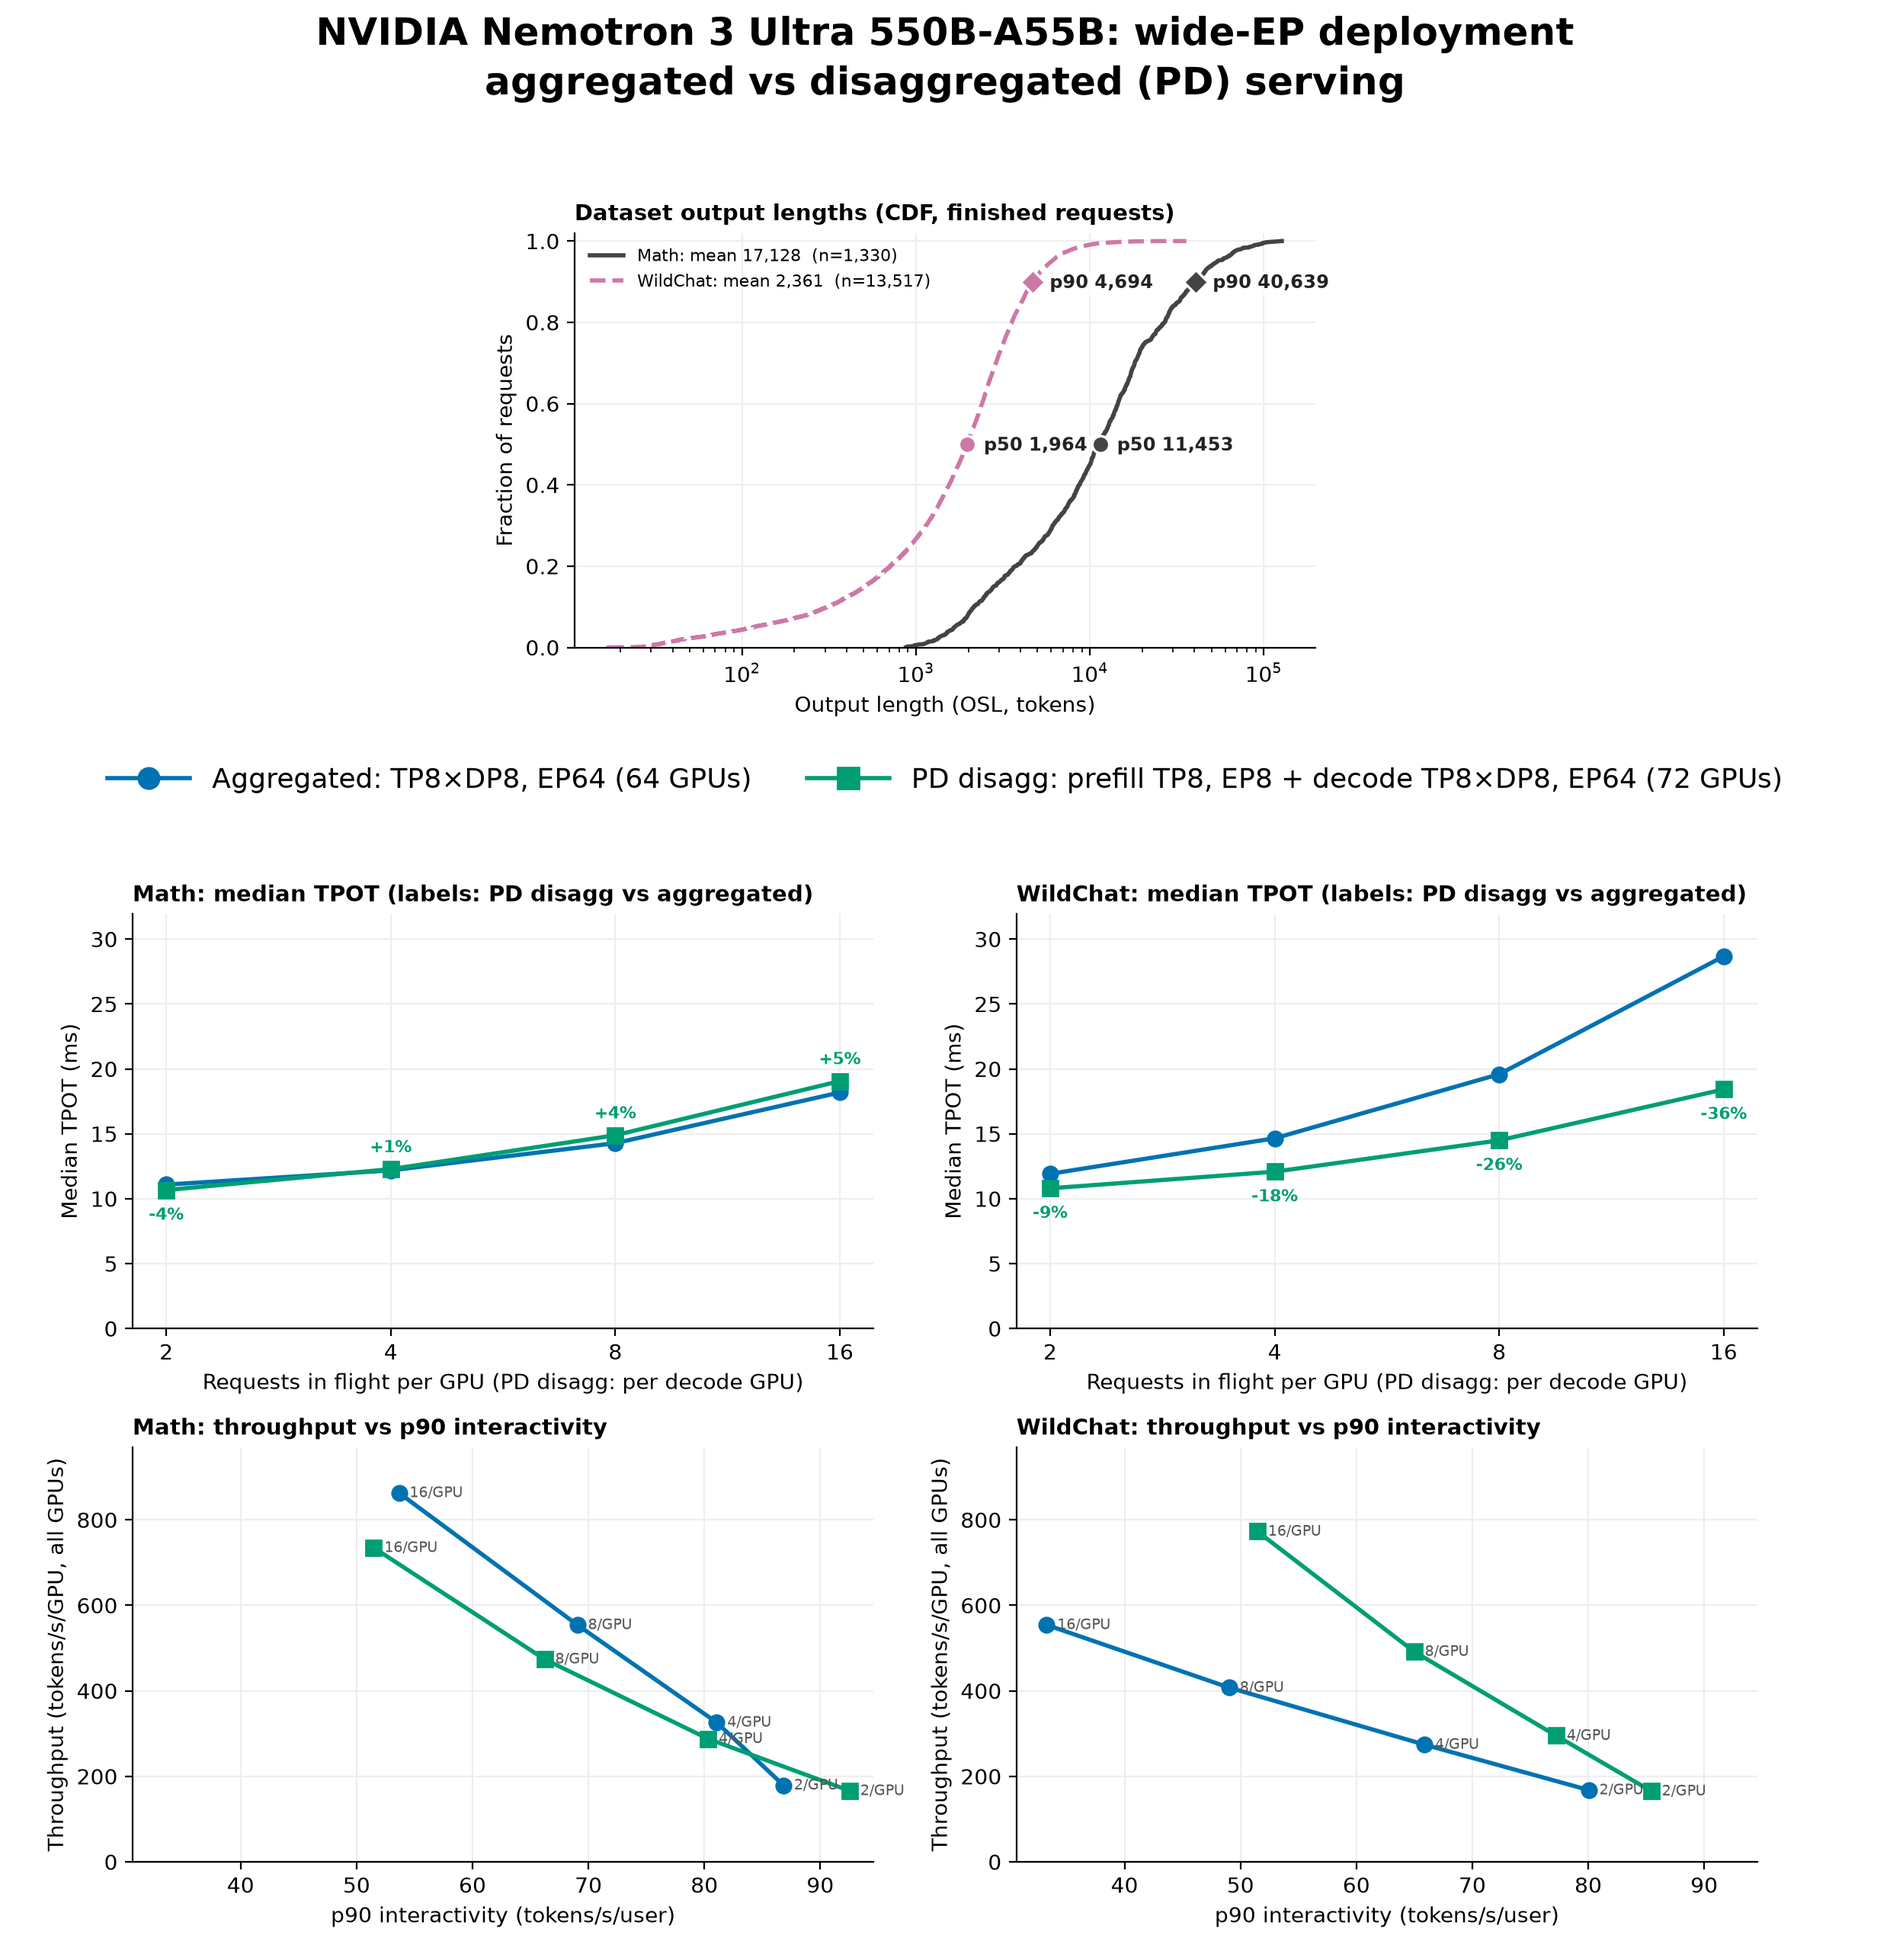
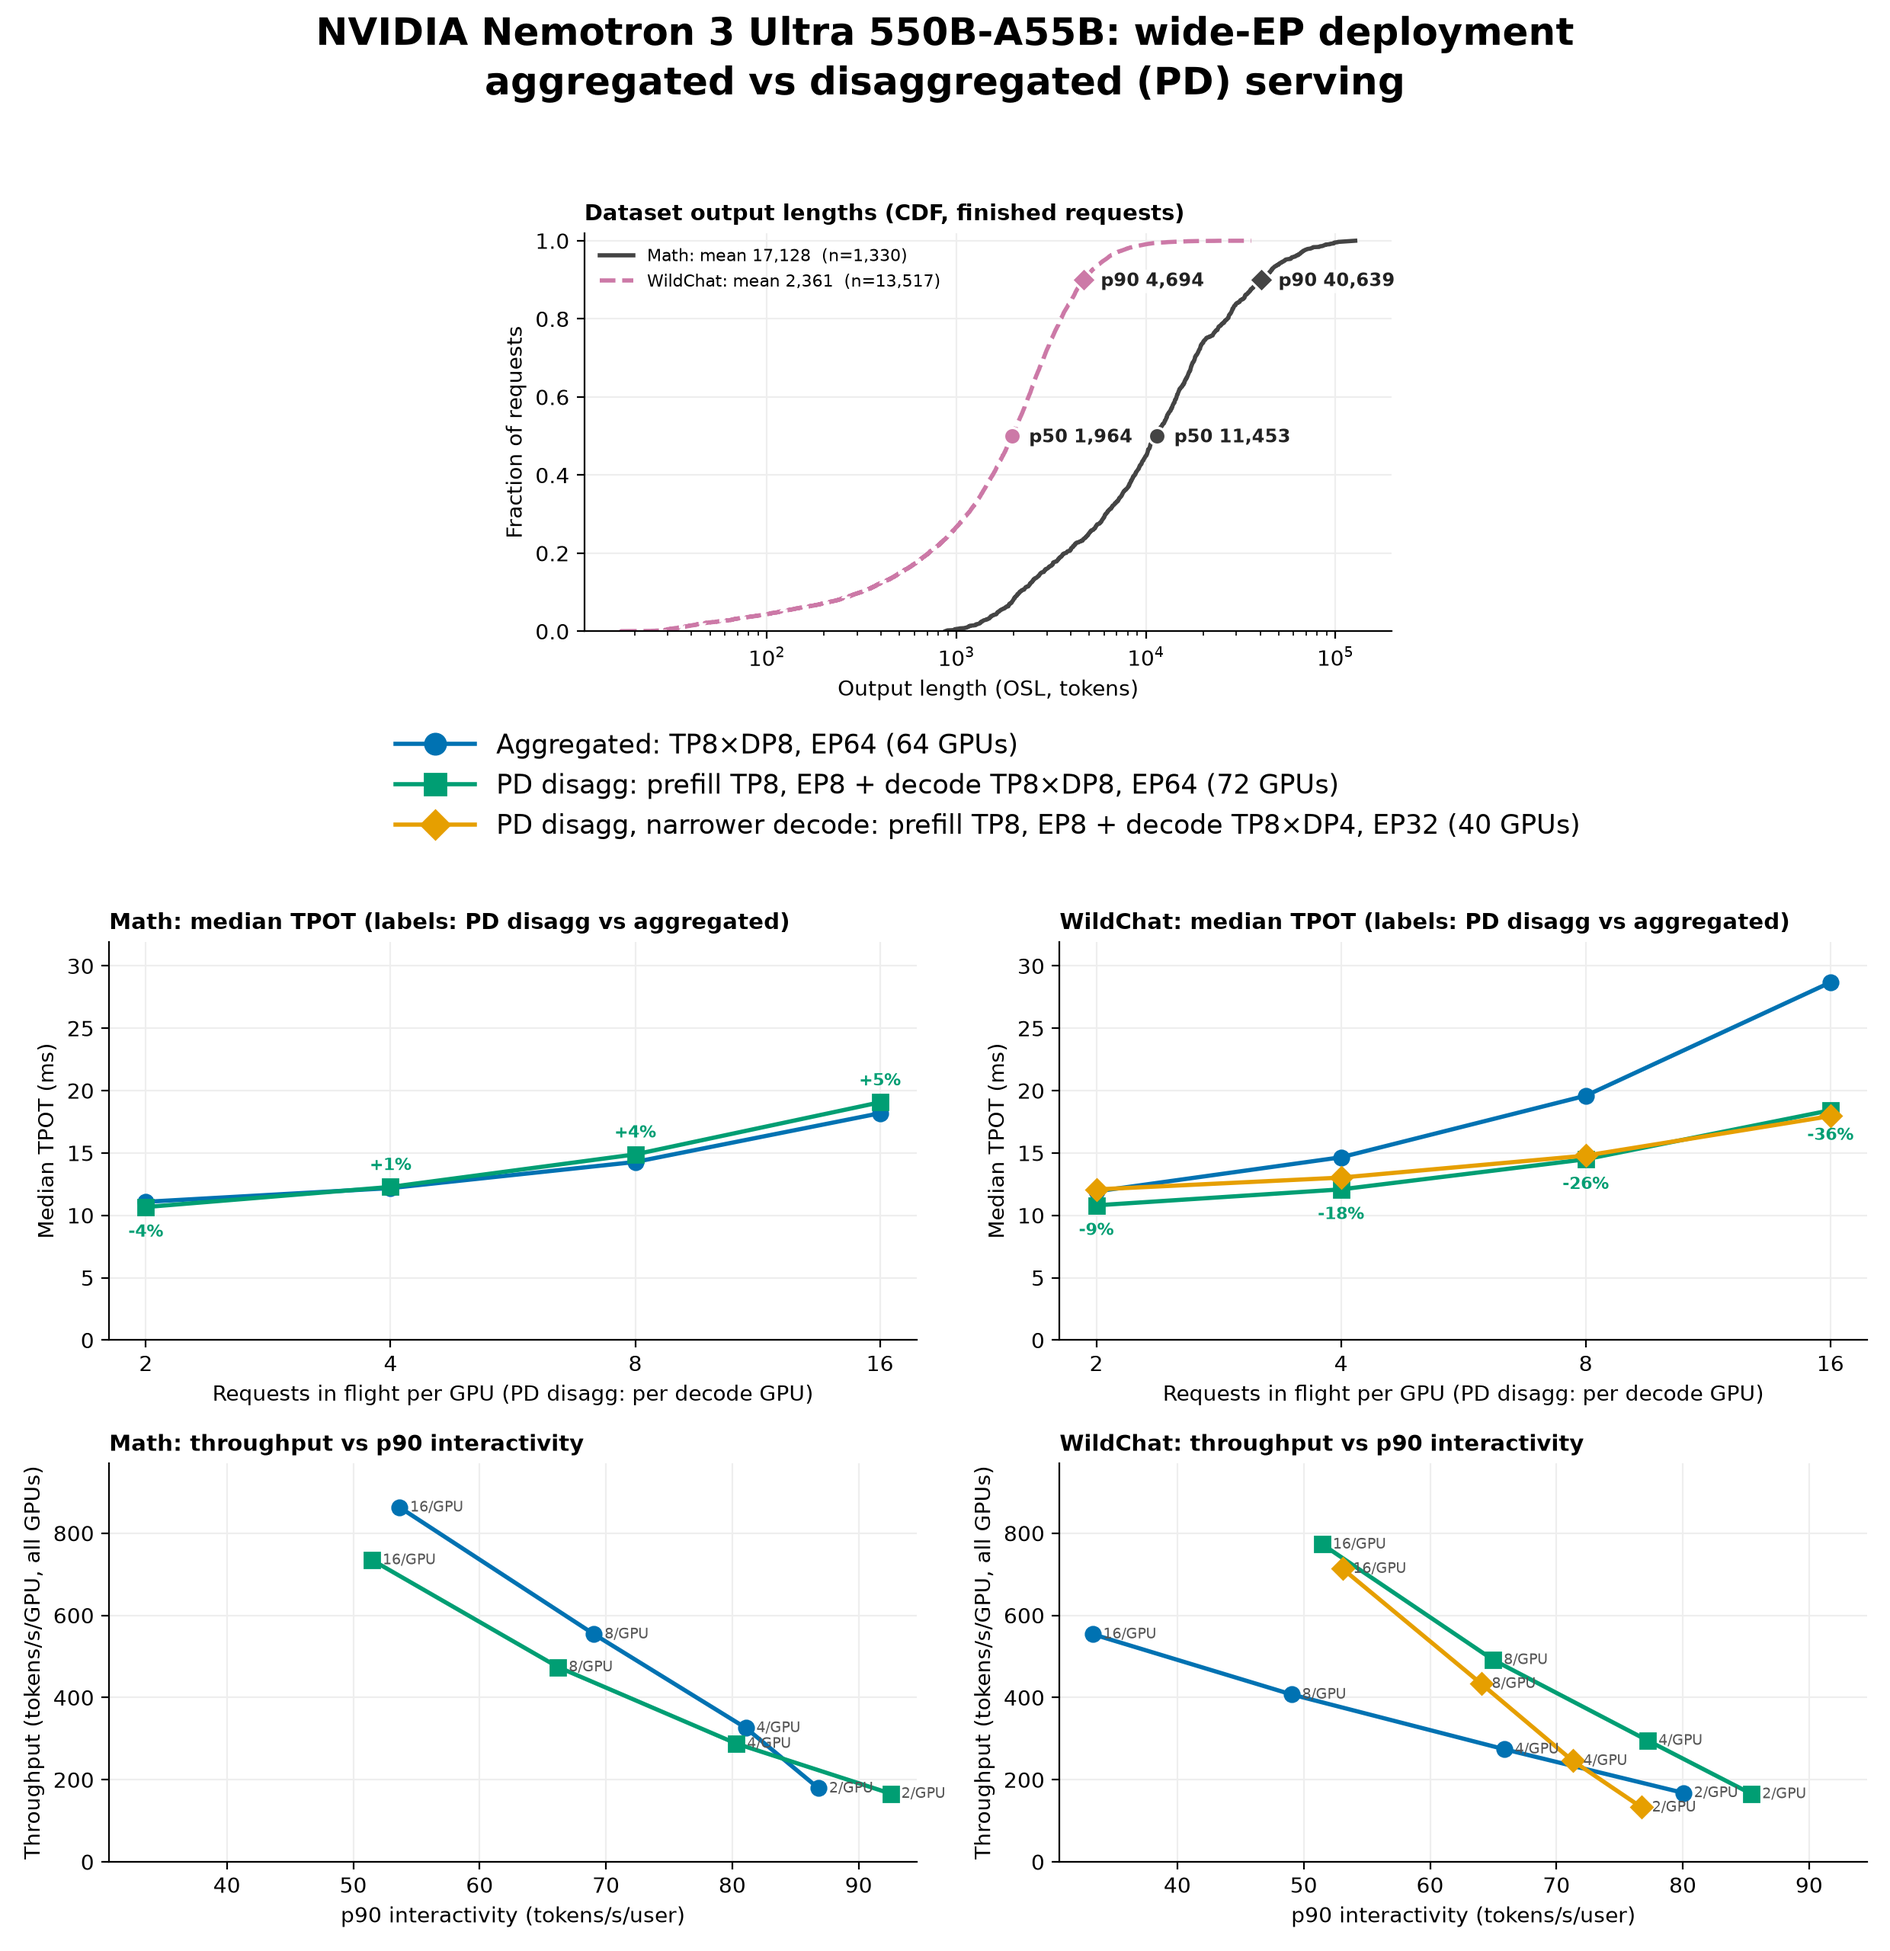
inference-bench: PD vs agg figure takes extra PD runs; WildChat adds the EP32-decode PD run
--extra-pd DATASET LABEL RUN draws another PD run (orange diamonds) in that dataset's column; the
legend lists every series once.

diff --git a/inference-bench/analysis/plot_pd_vs_agg.py b/inference-bench/analysis/plot_pd_vs_agg.py
@@ -18,11 +18,14 @@ from plot_narrow_vs_wide_now import MINF, layout, load, total_gpus
 
 plt.rcParams["font.family"] = ["Gill Sans", "Gill Sans MT", "URW Gothic", "Open Sans", "DejaVu Sans"]
 PD = "#009E73"  # bluish green, the PD series colour in the other Ultra figures
+EXTRA = "#E69F00"  # orange (Okabe-Ito): extra PD runs, off the CDF row's dataset colours
 
 
 def main():
     ap = argparse.ArgumentParser()
     ap.add_argument("--dataset", nargs=3, action="append", required=True, metavar=("NAME", "AGG", "PD"))
+    ap.add_argument("--extra-pd", nargs=3, action="append", default=[], metavar=("DATASET", "LABEL", "RUN"),
+                    help="another PD run drawn in DATASET's column (e.g. a narrower decode pool)")
     ap.add_argument("--title", default="NVIDIA Nemotron 3 Ultra 550B-A55B: wide-EP deployment\n"
                     "aggregated vs disaggregated (PD) serving")
     ap.add_argument("--out", required=True)
@@ -33,7 +36,7 @@ def main():
     assert len(args.dataset) == 2, "the layout has two dataset columns"
     # A thin row between the CDF and the TPOT row holds the aggregated / PD disagg legend.
     fig = plt.figure(figsize=(12.4, 12.8))
-    grid = fig.add_gridspec(4, 4, height_ratios=[1, 0.07, 1, 1])
+    grid = fig.add_gridspec(4, 4, height_ratios=[1, 0.07 if len(args.extra_pd) == 0 else 0.16, 1, 1])
     osl_ax = fig.add_subplot(grid[0, 1:3])
     legend_ax = fig.add_subplot(grid[1, :])
     legend_ax.axis("off")
@@ -41,6 +44,8 @@ def main():
     for col, (name, agg, pd) in enumerate(args.dataset):
         series = [(f"Aggregated: {layout(agg)} ({total_gpus(agg)} GPUs)", load(agg), MINF, "o"),
                   (f"PD disagg: {layout(pd)} ({total_gpus(pd)} GPUs)", load(pd), PD, "s")]
+        series += [(f"{label}: {layout(run)} ({total_gpus(run)} GPUs)", load(run), EXTRA, "D")
+                   for ds, label, run in args.extra_pd if ds == name]
         tpot, pareto = axes[1][col], axes[2][col]
         for label, pts, color, marker in series:
             per_gpu, tput, inter, t, _ = zip(*pts)
@@ -86,9 +91,13 @@ def main():
     osl_ax.set_title("Dataset output lengths (CDF, finished requests)", fontsize=10.5, loc="left",
                      fontweight="bold")
     # Same two series in every TPOT / Pareto panel: one large legend, above those panels.
-    handles, labels = axes[1][0].get_legend_handles_labels()
-    legend_ax.legend(handles, labels, frameon=False, fontsize=13, loc="center", ncol=2, markerscale=1.4,
-                     handlelength=3)
+    # Every series of every column, once (extra PD runs may appear in one column only).
+    seen = {}
+    for ax in axes[1]:
+        for h, l in zip(*ax.get_legend_handles_labels()):
+            seen.setdefault(l, h)
+    legend_ax.legend(list(seen.values()), list(seen), frameon=False, fontsize=12.5, loc="center",
+                     ncol=1 if len(seen) > 2 else 2, markerscale=1.4, handlelength=3)
     fig.suptitle(args.title, fontsize=18, fontweight="bold", x=0.5, ha="center", y=0.995, linespacing=1.3)
     fig.tight_layout(rect=(0, 0, 1, 0.97))
     fig.savefig(args.out, dpi=200)
